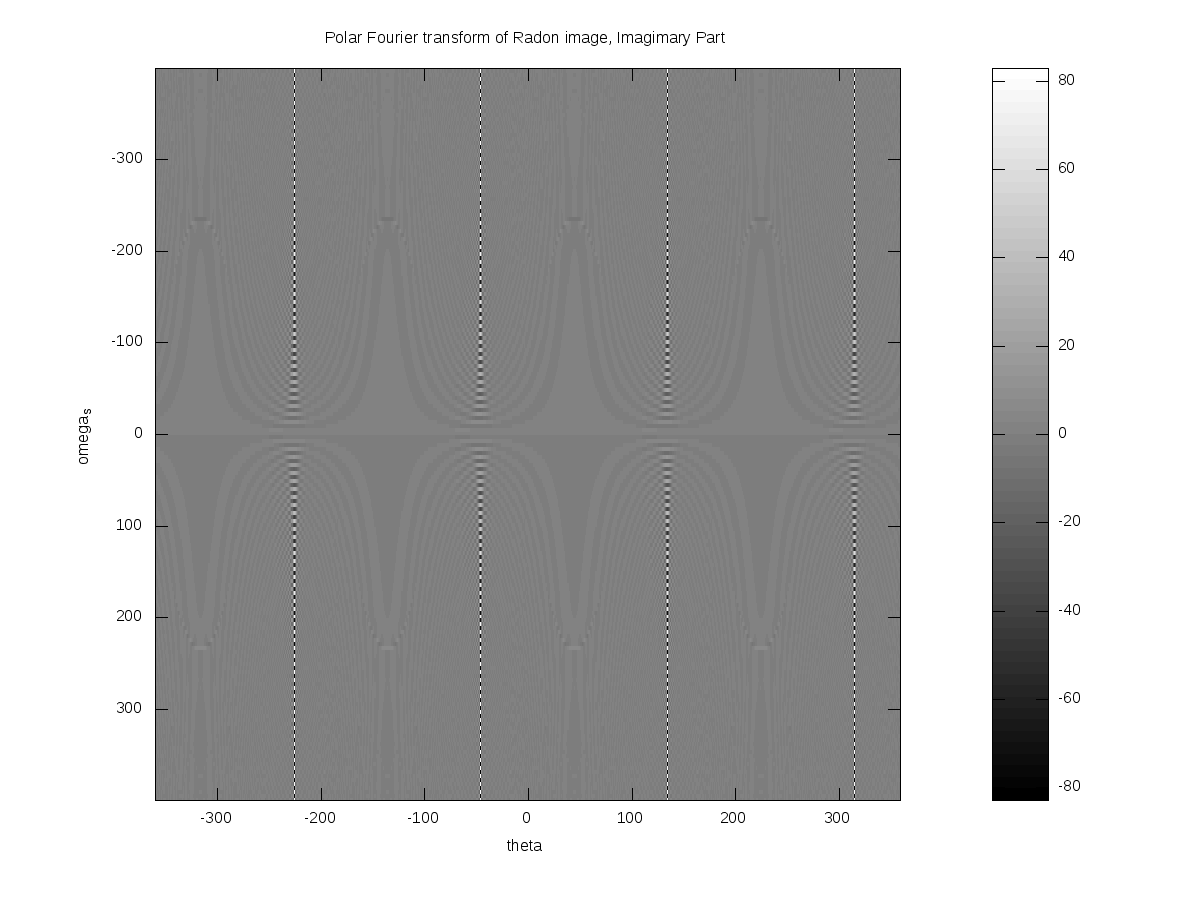
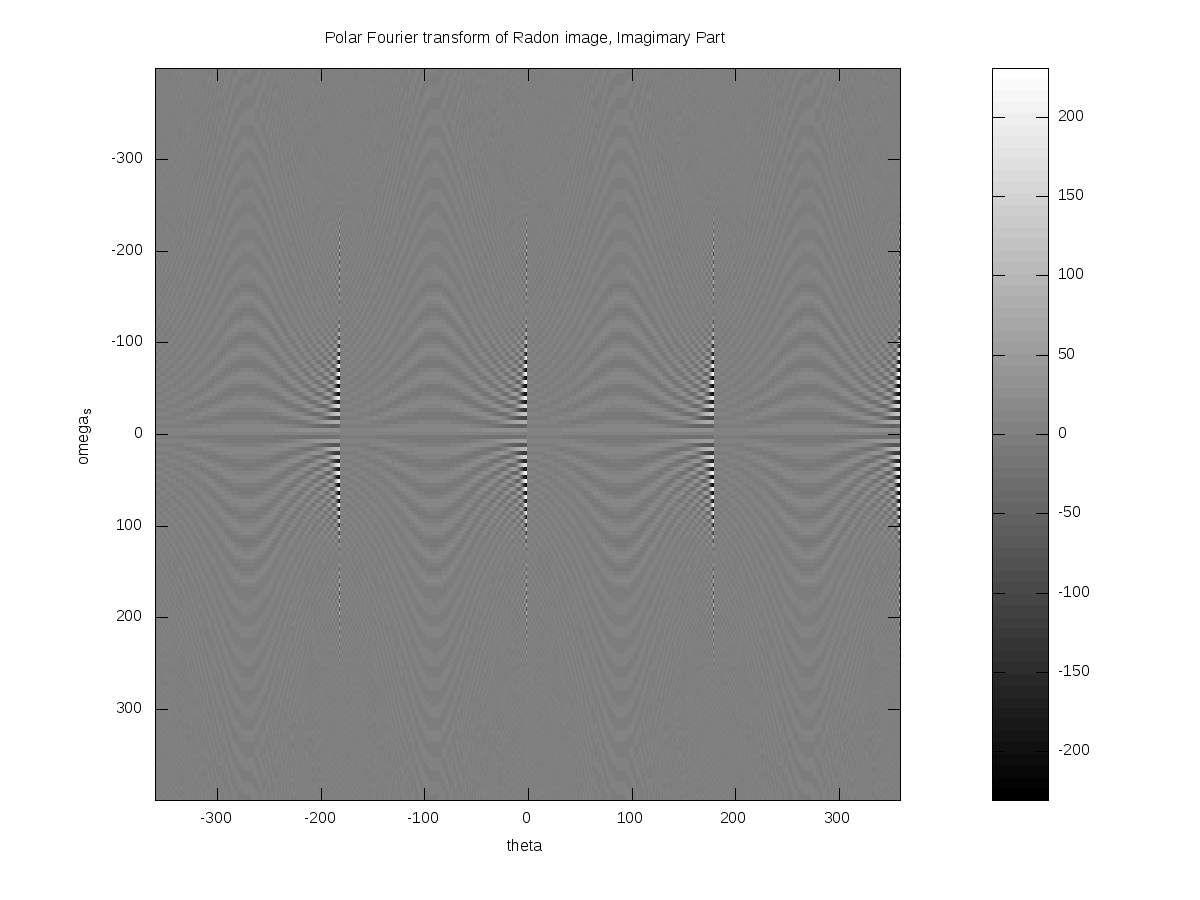
Add phantom stripe

diff --git a/trunk/run.m b/trunk/run.m
@@ -18,8 +18,17 @@ N=128;
 %P = zeros(N);
 %P(12,12)=1;
 
-% a straight line
-P=eye(N);
+% a stripe
+T=6;
+P=[zeros(N,(N-T)/2) ones(N,T) zeros(N,(N-T)/2)];
+
+% a square
+%T=30;
+%P=[zeros(N,(N-T)/2) ones(N,T) zeros(N,(N-T)/2)];
+%P=P'.*P; %image of square
+
+% a 45deg straight line
+%P=eye(N);
 
 % Determine the range of x and y
 x = linspace(-N/2,N/2,N);
@@ -33,7 +42,7 @@ print -dpng 1_phantom.png
 
 %% Apply radon transformation Rf
 theta=linspace(0,179,180);
-Rf = radon(P,theta+90);
+Rf = radon(P,theta);
 
 % Determine the range of s
 s_max=sqrt( max(x)^2 + max(y)^2 );
